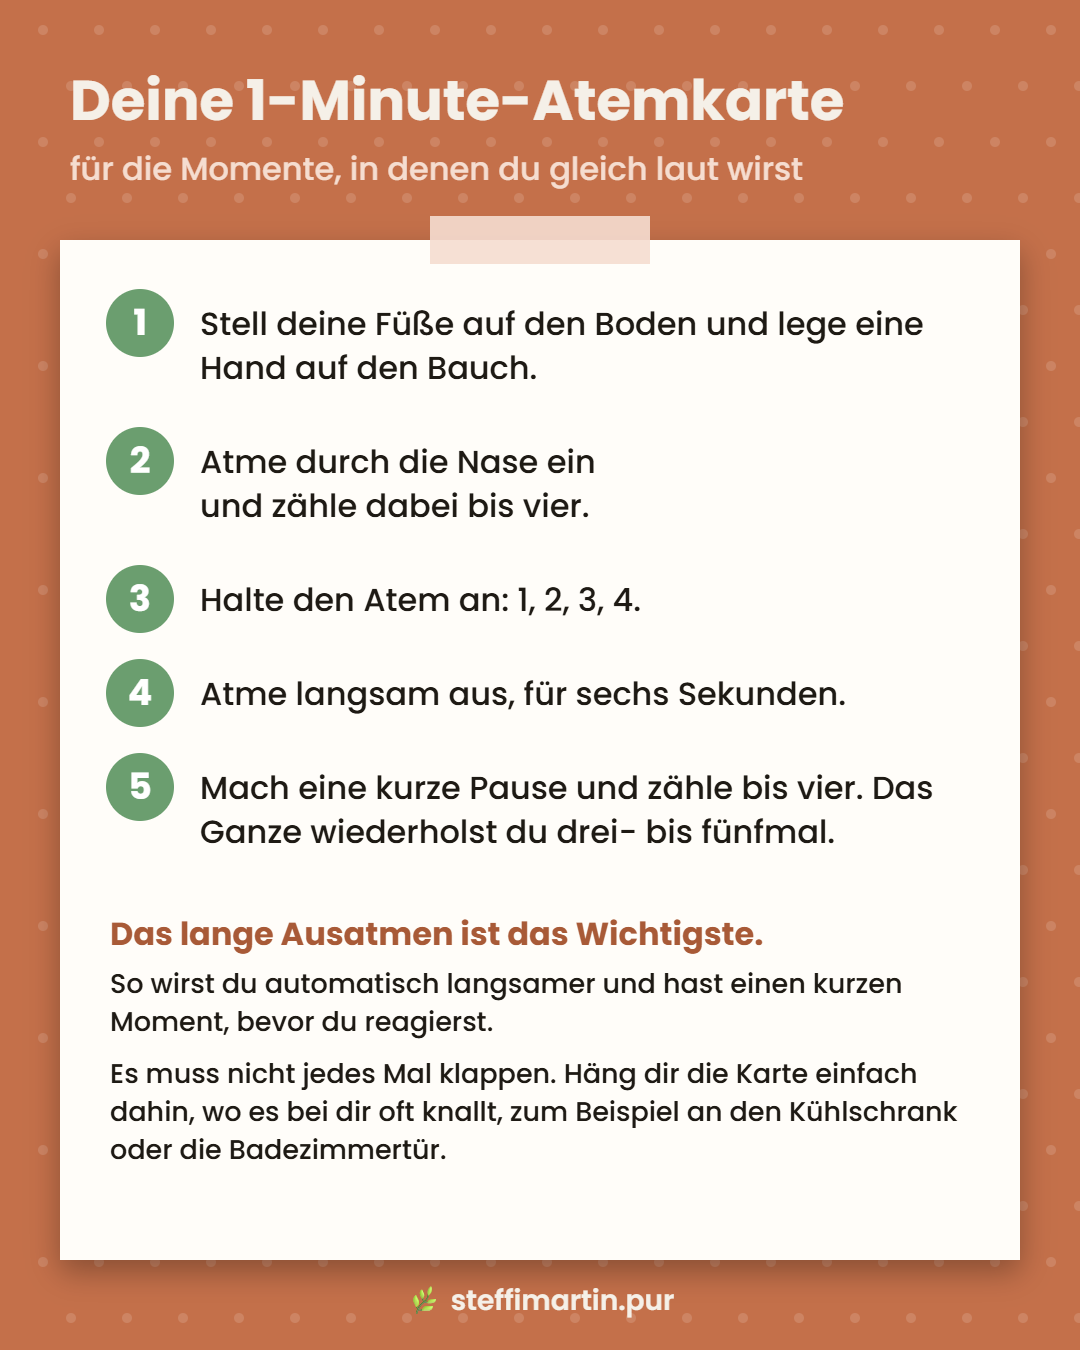
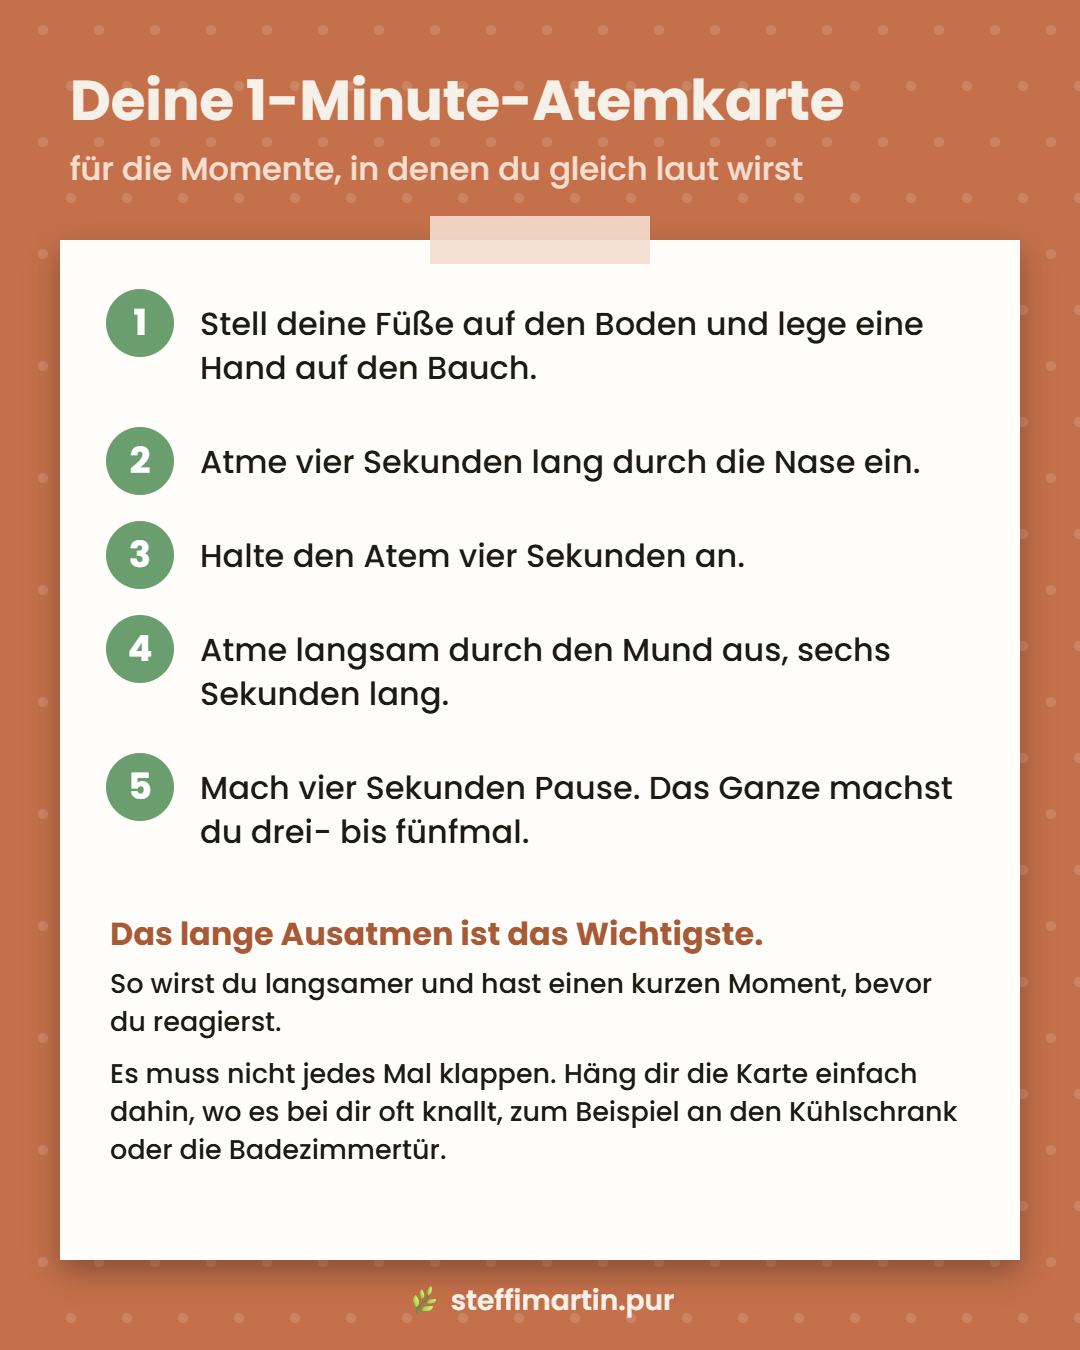
5-Minuten-Seite: Texte überarbeitet, Atemkarte aktualisiert
Claude-Session: https://claude.ai/code/session_01L1QCDf8khhSqrmQoGRqyCH

diff --git a/5-minuten.html b/5-minuten.html
@@ -42,6 +42,7 @@ audio{display:block;width:100%;margin-bottom:14px}
 .weiter{border-left:5px solid var(--salbei);padding:4px 0 4px 14px;margin-top:16px}
 .btn{display:block;text-align:center;text-decoration:none;border-radius:16px;background:var(--terra-dk);color:#fff;font-size:16px;font-weight:600;padding:15px 18px;margin-top:14px}
 .btn:hover{background:#8f4c2e}
+.hl{color:var(--terra-dk);font-weight:700}
 .warum{margin-bottom:12px}
 .warum b{display:block;font-size:13px;letter-spacing:.5px;color:var(--salbei-dk);margin-bottom:2px}
 .leise summary{padding:14px 16px;min-height:0}
@@ -88,9 +89,9 @@ audio{display:block;width:100%;margin-bottom:14px}
   <div class="text">
     <img class="bild" loading="lazy" src="5min/tag1.jpg" alt="Wäscheständer auf der Veranda">
     <audio controls preload="none" data-audio=""></audio>
-    <p>Heute schaust du einfach mal hin, wo deine freien Minuten eigentlich hingehen.</p>
-    <p class="warum"><b>WARUM DAS?</b>Du musst heute noch gar nichts ändern. Erst wenn du siehst, wo deine Minuten hingehen, kannst du entscheiden, ob sie dort bleiben sollen.</p>
+    <p>Heute schaust du einfach mal hin: Wo gehen deine freien Minuten eigentlich hin?</p>
     <div class="aufgabe"><b>DEINE FÜNF MINUTEN</b><p>Schreib heute Abend auf, was du alles „noch eben mal fix“ gemacht hast. Die Wäsche, die Spülmaschine, die Nachricht an die Kita, alles darf drauf.</p></div>
+    <p class="warum"><b>DAS NIMMST DU MIT</b>Du musst heute noch gar nichts ändern. Erst wenn du siehst, wo deine Minuten hingehen, kannst du entscheiden, ob sie dort bleiben sollen.</p>
     <p class="vonmir"><b>Von mir:</b> Ich bin quasi schon morgens aufgestanden mit gefühlt 1000 To-Dos.</p>
   </div>
 </details>
@@ -100,9 +101,9 @@ audio{display:block;width:100%;margin-bottom:14px}
   <div class="text">
     <img class="bild" loading="lazy" style="object-position:50% 47%" src="5min/tag2.jpg" alt="Steffi schreibt auf der Gartenschaukel in ihr Notizbuch">
     <audio controls preload="none" data-audio=""></audio>
-    <p>Abends im Bett rattert dir der Kopf? Dann kommt heute mal alles da raus.</p>
-    <p class="warum"><b>WARUM DAS?</b>Dein Kopf geht alles immer wieder durch, damit auch ja nichts vergessen wird. Wenn es auf dem Zettel steht, ist es raus aus dem Kopf, aber eben nicht weg. Und morgen früh kannst du in Ruhe draufschauen, was davon wirklich dran ist.</p>
+    <p>Abends im Bett rattert dir der Kopf? Heute kommt mal alles da raus:</p>
     <div class="aufgabe"><b>DEINE FÜNF MINUTEN</b><p>Nimm dir heute Abend einen Zettel oder dein Handy und schreib alles auf, was noch in deinem Kopf kreist: Termine, Brotdosen, was noch ansteht. Du schreibst es einfach runter, ganz ohne Ordnung.</p></div>
+    <p class="warum"><b>DAS NIMMST DU MIT</b>Dein Kopf geht alles immer wieder durch, damit auch ja nichts vergessen wird. Steht es auf dem Zettel, muss er das nicht mehr. Und morgen früh kannst du in Ruhe draufschauen, was davon wirklich dran ist.</p>
     <p class="vonmir"><b>Von mir:</b> Wenn ich merke, dass der Kopf rattert, dann habe ich mir angewöhnt, das einfach alles aufzuschreiben, damit es eben aus dem Kopf raus, aber nicht vergessen ist. Das hilft tatsächlich sehr gut.</p>
   </div>
 </details>
@@ -112,10 +113,10 @@ audio{display:block;width:100%;margin-bottom:14px}
   <div class="text">
     <img class="bild" loading="lazy" src="5min/tag3.jpg" alt="Tasse Kakao mit einem Smiley aus Kakaopulver">
     <audio controls preload="none" data-audio=""></audio>
-    <p>Heute wird's vielleicht ein bisschen ungewohnt.</p>
-    <p class="warum"><b>WARUM DAS?</b>Es wird nie alles erledigt sein. Wenn du mit deiner Pause wartest, bis es so weit ist, wartest du ewig. Und falls das schlechte Gewissen dabei mitkommt: Manchmal habe ich es immer noch, aber manchmal mache ich es auch trotzdem.</p>
+    <p>Heute wird's vielleicht ein bisschen ungewohnt:</p>
     <div class="aufgabe"><b>DEINE FÜNF MINUTEN</b><p>Such dir heute ein einziges „noch eben mal fix“ aus und lass es bewusst und ohne schlechtes Gewissen liegen. Die fünf Minuten, die dabei frei werden, gehören dir. Setz dich hin und trink in Ruhe deinen Kaffee, oder schau einfach mal aus dem Fenster.</p></div>
-    <p class="vonmir"><b>Von mir:</b> Ich bin ein Workaholic gewesen und ja, manchmal auch immer noch. Und wenn ich Sachen einfach mal liegen gelassen habe, hatte ich immer sehr schnell ein schlechtes Gewissen.</p>
+    <p class="warum"><b>DAS NIMMST DU MIT</b>Es wird nie alles erledigt sein. Wenn du mit deiner Pause wartest, bis es so weit ist, wartest du ewig.</p>
+    <p class="vonmir"><b>Von mir:</b> Ich bin ein Workaholic gewesen und ja, manchmal auch immer noch. Und wenn ich Sachen einfach mal liegen gelassen habe, hatte ich immer sehr schnell ein schlechtes Gewissen. Manchmal habe ich es immer noch, aber manchmal mache ich es auch trotzdem.</p>
   </div>
 </details>
 
@@ -124,10 +125,10 @@ audio{display:block;width:100%;margin-bottom:14px}
   <div class="text">
     <img class="bild" loading="lazy" src="5min/tag4.jpg" alt="Sonnenaufgang über dem Garten">
     <audio controls preload="none" data-audio=""></audio>
-    <p>Heute nimmst du dir ein paar Minuten, bevor der Tag dich hat.</p>
-    <p class="warum"><b>WARUM DAS?</b>Wenn der Tag erstmal läuft, bleibt meistens keine Minute mehr übrig. Für mich sind diese paar Minuten meine Notbremse, um nicht direkt mit Motzen, Meckern und schlechter Laune zu starten. Und sie müssen nicht perfekt sein.</p>
-    <div class="aufgabe"><b>DEINE FÜNF MINUTEN</b><p>Nimm dir morgens, bevor alles losgeht, ein paar Minuten. Atme einmal tief durch, schreib drei Dinge auf, wofür du heute dankbar bist, und leg dir einen Fokus für den Tag fest.</p></div>
-    <p class="vonmir"><b>Von mir:</b> Ich habe für mich das als Ritual festgestellt, ich nehme mir das morgens einfach, bevor die Kinder auch wach werden, um gut in den Tag zu starten, weil es einfach meine Laune auch besser macht und mir direkt etwas Positives am Morgen vor Augen führt.</p>
+    <p>Heute nimmst du dir ein paar Minuten, bevor der Tag dich einnimmt:</p>
+    <div class="aufgabe"><b>DEINE FÜNF MINUTEN</b><p>Atme morgens einmal tief durch, schreib drei Dinge auf, für die du heute dankbar bist, und leg dir einen Fokus für den Tag fest.</p></div>
+    <p class="warum"><b>DAS NIMMST DU MIT</b>Wenn der Tag erst mal läuft, bleibt meistens keine Minute mehr übrig. Und deine paar Minuten müssen auch gar nicht perfekt sein.</p>
+    <p class="vonmir"><b>Von mir:</b> Ich habe für mich das als Ritual festgestellt, ich nehme mir das morgens einfach, bevor die Kinder auch wach werden, um gut in den Tag zu starten, weil es einfach meine Laune auch besser macht und mir direkt etwas Positives am Morgen vor Augen führt. Das ist meine Notbremse, um nicht direkt mit Motzen, Meckern und schlechter Laune zu starten.</p>
   </div>
 </details>
 
@@ -136,9 +137,9 @@ audio{display:block;width:100%;margin-bottom:14px}
   <div class="text">
     <img class="bild" loading="lazy" style="object-position:50% 33%" src="5min/tag5.jpg" alt="Steffi cremt sich vor dem Spiegel das Gesicht ein">
     <audio controls preload="none" data-audio=""></audio>
-    <p>Heute geht es um einen kleinen Moment nur für dich.</p>
-    <p class="warum"><b>WARUM DAS?</b>Für alle anderen nimmst du dir ganz selbstverständlich Zeit. Heute kommst du mal zuerst dran, ganz ohne großen Aufwand.</p>
-    <div class="aufgabe"><b>DEINE FÜNF MINUTEN</b><p>Nimm dir heute fünf Minuten nur für deine Pflege, mit dem, was du eh schon da hast. Trag dir in Ruhe deine Gesichtscreme auf, oder creme dir mal ganz bewusst die Hände oder die Füße ein. Und schau dabei mal nicht aufs Handy.</p></div>
+    <p>Heute gehört dir ein ganz bewusster Moment im Bad:</p>
+    <div class="aufgabe"><b>DEINE FÜNF MINUTEN</b><p>Nimm dir heute fünf Minuten nur für deine Pflege, mit dem, was du eh schon da hast. Trag dir in Ruhe deine Gesichtscreme auf, oder creme dir die Hände oder die Füße ein. Und schau dabei nicht aufs Handy.</p></div>
+    <p class="warum"><b>DAS NIMMST DU MIT</b>Für alle anderen nimmst du dir ganz selbstverständlich Zeit. Heute kommst du mal zuerst dran, ganz ohne großen Aufwand.</p>
     <p class="vonmir"><b>Von mir:</b> Freie Minuten verbringe ich tatsächlich auch einfach mal mit meiner Pflegeroutine, um mir mal was zu gönnen, anstatt wieder irgendwelche Aufgaben zu erledigen.</p>
   </div>
 </details>
@@ -148,10 +149,10 @@ audio{display:block;width:100%;margin-bottom:14px}
   <div class="text">
     <img class="bild" loading="lazy" style="object-position:50% 28%" src="5min/tag6.jpg" alt="Steffi sitzt lachend auf einer Holzbank">
     <audio controls preload="none" data-audio=""></audio>
-    <p>Heute darf etwas einfacher werden.</p>
-    <p class="warum"><b>WARUM DAS?</b>Du musst nicht alles allein und nicht alles perfekt machen. Auf dich zu gucken gehört auch dazu, das darfst du dir ruhig erlauben.</p>
+    <p>Heute darf etwas einfacher werden:</p>
     <div class="aufgabe"><b>DEINE FÜNF MINUTEN</b><p>Überleg dir eine Sache von deiner Liste, die heute nicht perfekt sein muss. Vielleicht reicht ein schnelles Abendessen, oder die Wäsche wartet bis morgen. Und wenn es jemanden gibt, der dir etwas abnehmen kann, frag ruhig mal nach.</p></div>
-    <p class="vonmir"><b>Von mir:</b> Wenn mein Akku leer ist, kann ich auch niemand anderem mehr helfen. Deshalb ist es wichtig, auf mich zu gucken.</p>
+    <p class="warum"><b>DAS NIMMST DU MIT</b>Du musst nicht alles allein und nicht alles perfekt machen. Ein paar Minuten für dich gehören auch dazu, das darfst du dir erlauben.</p>
+    <p class="vonmir"><b>Von mir:</b> Wenn mein Akku leer ist, kann ich auch niemand anderem mehr helfen. Deshalb ist es wichtig, auf mich zu schauen.</p>
   </div>
 </details>
 
@@ -160,13 +161,13 @@ audio{display:block;width:100%;margin-bottom:14px}
   <div class="text">
     <img class="bild" loading="lazy" style="object-position:50% 37%" src="5min/tag7.jpg" alt="Steffi mit Hund auf dem Feldweg">
     <audio controls preload="none" data-audio=""></audio>
-    <p>Das waren jetzt sieben kleine Momente. Welcher hat dir am besten getan?</p>
-    <p class="warum"><b>WARUM DAS?</b>Ein kleiner Moment, der wirklich in deinen Alltag passt, reicht völlig. Und wenn du diese Woche auch nur einen davon für dich gefunden hast, ist das schon richtig viel.</p>
-    <div class="aufgabe"><b>DEINE FÜNF MINUTEN</b><p>Schau zurück auf die Woche und such dir deinen Lieblingsmoment aus. Den planst du dir für die nächste Woche fest ein, so wie er in deinen Alltag passt.</p></div>
-    <p class="vonmir"><b>Von mir:</b> Ich mache echt ungern Pausen. Das fällt mir immer noch schwer. Aber ich habe für mich festgestellt, dass Pausen wirklich wichtig sind, um auf Dauer durchzuhalten.</p>
+    <p>Das waren jetzt sechs kleine Momente: Welcher hat für dich am besten gepasst?</p>
+    <div class="aufgabe"><b>DEINE FÜNF MINUTEN</b><p>Schau zurück auf die Woche und such dir deinen Lieblingsmoment aus. Den planst du dir für die nächste Woche fest ein.</p></div>
+    <p class="warum"><b>DAS NIMMST DU MIT</b>Ein kleiner Moment, der wirklich in deinen Alltag passt, reicht völlig. Und wenn du diese Woche auch nur einen davon für dich gefunden hast, ist das schon richtig viel.</p>
+    <p class="vonmir"><b>Von mir:</b> Ich mache echt ungern Pausen und erledige die Sachen am liebsten sofort. Das fällt mir immer noch schwer. Aber ich habe für mich festgestellt, dass Pausen wirklich wichtig sind, um auf Dauer durchzuhalten.</p>
     <div class="weiter">
       <h2>Und wie geht's weiter?</h2>
-      <p>Wenn du dranbleiben magst: In „Ciao Funktionieren“ gehen wir das vier Wochen lang zusammen an, mit einer WhatsApp-Gruppe und einem Impuls von mir pro Woche. Die erste Runde ist eine Pilotrunde, weil ich das zum ersten Mal mache. Schreib mir einfach bei Instagram, dann erzähl ich dir mehr.</p>
+      <p>Wenn du dranbleiben magst: Gerade bereite ich „Ciao Funktionieren“ vor. Da gehen wir das vier Wochen lang zusammen an, mit einer WhatsApp-Gruppe und einem Impuls von mir pro Woche. Die erste Runde ist eine Pilotrunde und startet im Januar. Schreib mir einfach bei Instagram, dann sag ich dir rechtzeitig Bescheid.</p>
     </div>
     <a class="btn" href="https://ig.me/m/steffimartin.pur">Schreib mir bei Instagram</a>
   </div>
